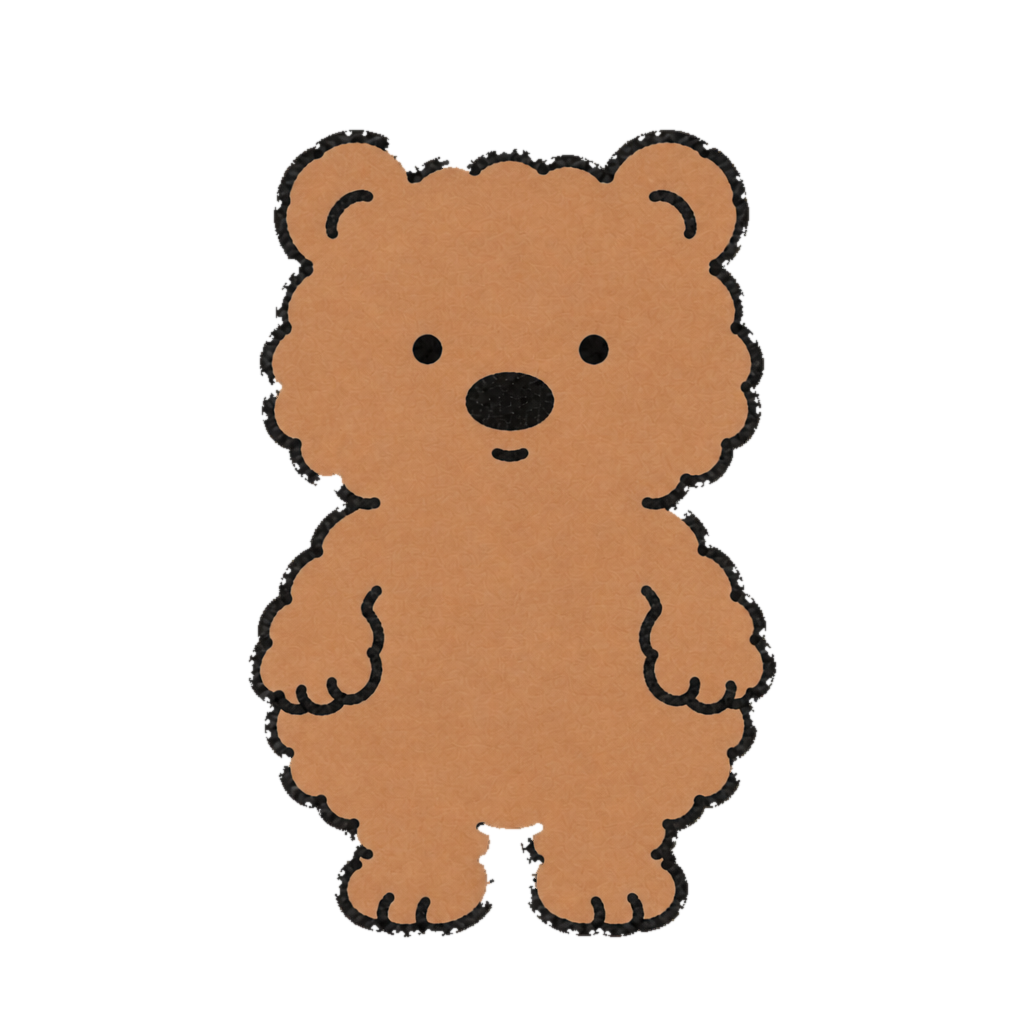
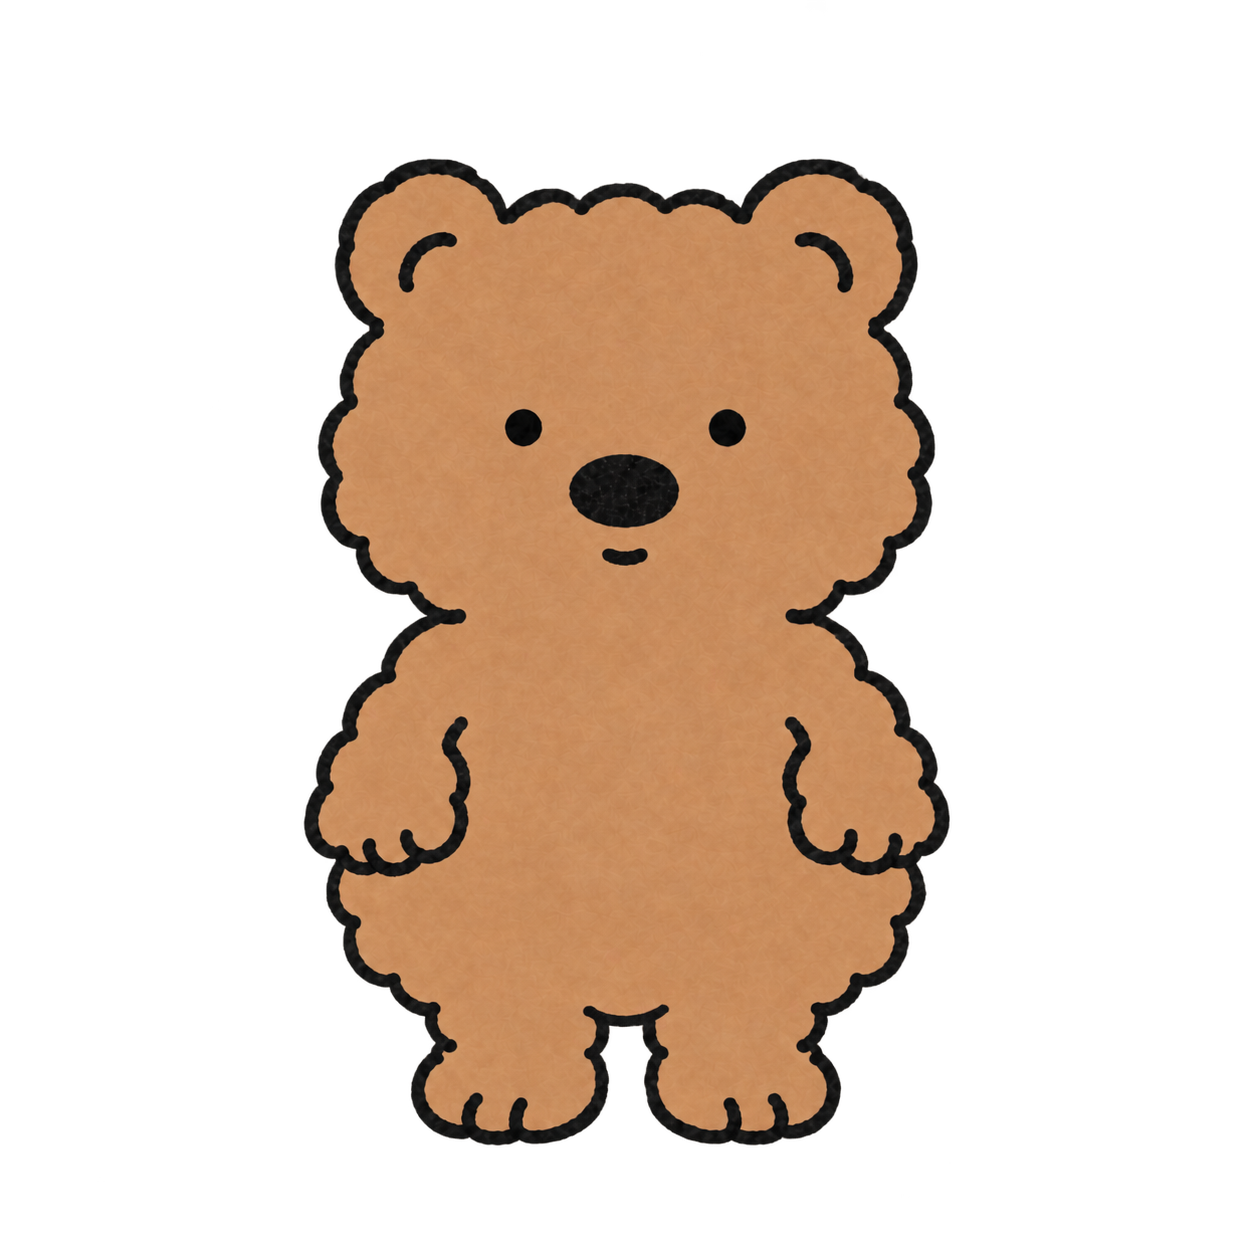
출시 빌드에 실광고 ID를 넣고 곰·너구리 누끼를 맞춘다.
배너·리워드 라이브 그룹과 1254 원본 해상도 이미지를 반영한다.

diff --git a/web/src/lib/ads.ts b/web/src/lib/ads.ts
@@ -1,16 +1,29 @@
 /**
  * 인앱 광고 그룹 ID
- * - 개발/QR: 문서 테스트 ID (실 ID로 테스트하면 정책 위반)
- * - 출시: .env 에 콘솔 ID 설정
+ * - 개발/QR(`vite dev`): 문서 테스트 ID. 실 ID로 테스트하면 정책 위반.
+ * - 출시 빌드(`vite build`): 콘솔 라이브 ID.
+ * - `.env`의 VITE_* 값이 있으면 그 값을 우선합니다.
+ * Vite는 `import.meta.env.VITE_*`만 빌드 시 치환하므로 키를 직접 참조합니다.
  */
-export const REWARDED_AD_GROUP_ID =
-  (import.meta.env.VITE_REWARDED_AD_GROUP_ID as string | undefined)?.trim()
-  || 'ait-ad-test-rewarded-id'
+const envOr = (configured: string | undefined, liveId: string, testId: string) => {
+  const fromEnv = configured?.trim()
+  if (fromEnv) return fromEnv
+  return import.meta.env.PROD ? liveId : testId
+}
 
-/** 리스트형 배너 (홈·꾸미기) */
-export const BANNER_AD_GROUP_ID =
-  (import.meta.env.VITE_BANNER_AD_GROUP_ID as string | undefined)?.trim()
-  || 'ait-ad-test-banner-id'
+/** 리워드형 광고. 라이브: ait.v2.live.b1a86b7ff7be433c */
+export const REWARDED_AD_GROUP_ID = envOr(
+  import.meta.env.VITE_REWARDED_AD_GROUP_ID,
+  'ait.v2.live.b1a86b7ff7be433c',
+  'ait-ad-test-rewarded-id',
+)
+
+/** 리스트형 배너 (홈·꾸미기). 라이브: ait.v2.live.57ffb0d441d94b78 */
+export const BANNER_AD_GROUP_ID = envOr(
+  import.meta.env.VITE_BANNER_AD_GROUP_ID,
+  'ait.v2.live.57ffb0d441d94b78',
+  'ait-ad-test-banner-id',
+)
 
 /** 광고 1회 시청 완료 시 지급할 냠 */
 export const REWARD_NYAM_PER_AD = 100

diff --git a/web/index.html b/web/index.html
@@ -5,8 +5,8 @@
     <meta name="viewport" content="width=device-width, initial-scale=1.0, maximum-scale=1.0, user-scalable=no, viewport-fit=cover" />
     <meta name="theme-color" content="#3182F6" />
     <meta name="msapplication-tap-highlight" content="no" />
-    <!-- companion assets: transparent PNG rebuild 2026-09-18 -->
-    <meta name="app-asset-rev" content="companion-alpha-1" />
+    <!-- companion assets: animal-prefixed filenames 2026-09-21 -->
+    <meta name="app-asset-rev" content="companion-animal-prefix-1" />
     <link rel="icon" href="/assets/ui/favicon.svg" />
     <title>눈찌</title>
     <meta

diff --git a/web/public/assets/characters/companions/guide.md b/web/public/assets/characters/companions/guide.md
@@ -22,7 +22,7 @@
 - 파일명은 **동물 영문 접두사** + 상태입니다. 예: `bear-neutral.png`, `raccoon-chubby.png`, `seal-receipt.png`.
 - 접두사 매핑: `foodie`→`bear`, `shopper`→`raccoon`, `subscriber`→`seal`, `_archive/capybara`→`capybara`.
 - 상태 5종: `neutral`, `chubby`, `very-chubby`, `receipt`, `eating`.
-- 현재 컴패니언 캔버스는 상태별로 모두 `1024×1024`입니다. 임의로 확대·축소하거나 비율을 변경하지 않습니다.
+- 곰·너구리는 누끼 복원본의 원본 해상도인 `1254×1254`, 물개는 `1024×1024`입니다. 같은 동물의 5상태는 해상도를 통일하며, 정사각형 비율과 화면 내 표시 크기를 유지합니다. 생성 결과를 불필요하게 재샘플링하지 않습니다.
 - 포즈와 소품은 눈찌의 같은 상태를 기준으로 맞추되, 동물의 얼굴과 실루엣은 상태 사이에서 동일하게 유지합니다.
 
 ### 2. 투명 배경과 누끼
@@ -44,7 +44,7 @@
 
 ### 4. 최종 검수 — 저장 전에 전부 확인
 
-- [ ] `1024×1024` RGBA PNG인가
+- [ ] 같은 동물의 5상태가 동일 해상도의 정사각형 RGBA PNG인가
 - [ ] 네 모서리 알파값이 모두 `0`인가
 - [ ] 밝은 크림 배경에서 흰 테두리·체커 조각이 없는가
 - [ ] 짙은 회색 배경에서 검은 번짐·검정 판이 없는가

diff --git a/docs/RELEASE_CHECKLIST.md b/docs/RELEASE_CHECKLIST.md
@@ -40,8 +40,8 @@
 
 ### 광고·도메인
 
-- [ ] 리워드 광고 그룹 실 ID → `VITE_REWARDED_AD_GROUP_ID` (개발: `ait-ad-test-rewarded-id`)
-- [ ] 배너 광고 그룹 실 ID → `VITE_BANNER_AD_GROUP_ID` (개발: `ait-ad-test-banner-id`)
+- [x] 리워드 광고 그룹 실 ID → 출시 빌드 `ait.v2.live.b1a86b7ff7be433c` (개발: `ait-ad-test-rewarded-id`)
+- [x] 배너 광고 그룹 실 ID → 출시 빌드 `ait.v2.live.57ffb0d441d94b78` (개발: `ait-ad-test-banner-id`)
 - [ ] CORS/Origin에 앱 도메인 허용  
   - 실서비스: `https://pocket-mates.web.tossmini.com`  
   - QR: `https://pocket-mates.private-web.tossmini.com`
